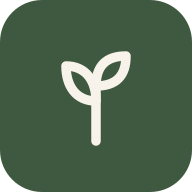
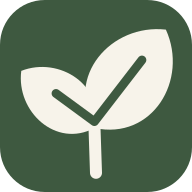
Add files via upload
Round 5.1.6

diff --git a/app.js b/app.js
@@ -1,5 +1,5 @@
 /* Green Screen v5 — round 1: data & sync, sidebar & themes, New project, Projects, Project page */
-const APP_VERSION = '5.1.3';
+const APP_VERSION = '5.1.6';
 
 /* ============================================================
    CONSTANTS & DEFAULTS
@@ -64,7 +64,7 @@ const motionOK = () => U.motion && !(window.matchMedia && window.matchMedia('(pr
    ============================================================ */
 const svg = (w, body, sw = 1.8) => `<svg width="${w}" height="${w}" viewBox="0 0 24 24" fill="none" stroke="currentColor" stroke-width="${sw}" stroke-linecap="round" stroke-linejoin="round" aria-hidden="true">${body}</svg>`;
 const I = {
-  leaf: (w = 16, c = 'var(--accentInk)') => `<svg width="${w}" height="${w}" viewBox="0 0 24 24" fill="none" stroke="${c}" stroke-width="2" stroke-linecap="round" aria-hidden="true"><path d="M12 21V9"></path><path d="M12 13c-4 0-6-3-6-7 4 0 6 3 6 7z"></path><path d="M12 10c0-4 2-6 6-6 0 4-2 6-6 6z"></path></svg>`,
+  leaf: (w = 28) => `<svg width="${w}" height="${w}" viewBox="0 0 120 120" aria-hidden="true"><g fill="var(--accentInk)"><path transform="translate(59 80) rotate(36)" d="M0 0C34 -15 30 -59 0 -76C-30 -59 -34 -15 0 0Z"></path><path transform="translate(59 80) rotate(-52)" d="M0 0C25 -11 22 -45 0 -58C-22 -45 -25 -11 0 0Z"></path></g><path d="M59 78L60 108" stroke="var(--accentInk)" stroke-width="7.5" stroke-linecap="round"></path><path d="M35 58.4L59 76L88.7 37.5" fill="none" stroke="var(--accent)" stroke-width="5.5" stroke-linecap="round" stroke-linejoin="round"></path></svg>`,
   dash: svg(16, '<rect x="3" y="3" width="7" height="7" rx="1.5"></rect><rect x="14" y="3" width="7" height="7" rx="1.5"></rect><rect x="3" y="14" width="7" height="7" rx="1.5"></rect><rect x="14" y="14" width="7" height="7" rx="1.5"></rect>'),
   list: svg(16, '<path d="M9 6h11M9 12h11M9 18h11"></path><path d="M4 6h.01M4 12h.01M4 18h.01"></path>'),
   clock: svg(16, '<circle cx="12" cy="12" r="9"></circle><path d="M12 7v5l3 2"></path>'),
@@ -420,13 +420,14 @@ function renderSide() {
       <span class="pbar"><i style="width:${pr.pct}%;background:${dColor(p.designer)}"></i></span></a>`;
   }).join('') : `<div class="lbl" style="font-size:12.5px;color:var(--muted);padding:2px 10px;white-space:normal">No open projects yet</div>`;
   return `<aside class="side${U.collapsed ? ' collapsed' : ''}">
-    <a class="brand" href="#/dashboard" title="Green Screen"><span class="logo">${I.leaf()}</span><span class="lbl" style="font-weight:600;font-size:16px;letter-spacing:-.01em;color:var(--ink)">Green Screen</span></a>
+    <a class="brand" href="#/dashboard" title="Green Screen"><span class="logo">${I.leaf(28)}</span><span class="lbl" style="font-weight:600;font-size:16px;letter-spacing:-.01em;color:var(--ink)">Green Screen</span></a>
     <nav class="navlist" aria-label="Main">${navHtml}</nav>
     <div style="display:flex;flex-direction:column;gap:6px;min-height:0">
       <div class="sidehead"><span class="lbl">Open projects</span></div>
       <div class="sideprojs">${projHtml}</div>
     </div>
     <a href="#/settings" class="syncind" id="syncind"></a>
+    ${installEvt && !isStandalone() ? `<button class="toggle press installbtn" data-act="install" title="Install Green Screen as an app" style="margin-top:-18px">${I.download}<span class="lbl">Install app</span></button>` : ''}
     <button class="toggle press" data-act="toggleSide" aria-label="${U.collapsed ? 'Expand sidebar' : 'Collapse sidebar'}" title="${U.collapsed ? 'Expand sidebar' : 'Collapse sidebar'}">${I.collapse}<span class="lbl">Collapse</span></button>
   </aside>`;
 }
@@ -754,17 +755,24 @@ function pageTasklist() {
    ============================================================ */
 function pageDue() {
   const days = Array.from({ length: 14 }, (_, i) => addDays(i));
+  const installs = activeProjects().filter(p => p.installDate && days.includes(p.installDate) && dselOK(p));
   const all = openSteps(r => !!r.x.st.due && daysFrom(r.x.st.due) <= 13 && dselOK(r.p));
   const leavingRows = Object.keys(U.tleave).map(mk => { const [pid, k] = mk.split(':'); const p = S.projects[pid]; const x = p && getItem(p, k); return p && x && x.st.due ? { p, x, cs: curStage(p), upcoming: x.stage > curStage(p) } : null; }).filter(Boolean).filter(r => !all.some(a => a.p.id === r.p.id && a.x.key === r.x.key));
   const rows = all.concat(leavingRows);
   const sel = U.dueDay && days.includes(U.dueDay) ? U.dueDay : null;
   const strip = `<div class="strip rise" role="group" aria-label="Next 14 days">${days.map((iso, i) => {
     const d = parseISO(iso); const here = rows.filter(r => r.x.st.due === iso && !U.tleave[r.p.id + ':' + r.x.key]);
+    const inst = installs.filter(p => p.installDate === iso);
     const wk = d.getDay() === 0 || d.getDay() === 6;
-    const dots = here.length > 6 ? `<i></i><i></i><i></i><span class="sdmore">+${here.length - 3}</span>` : here.map(() => '<i></i>').join('');
-    return `<button class="scell press${i === 0 ? ' today' : ''}${wk ? ' wk' : ''}${sel === iso ? ' on' : ''}" data-act="dueDay" data-v="${iso}" aria-pressed="${sel === iso}" title="${fmtDay(iso)} · ${here.length} ${here.length === 1 ? 'step' : 'steps'} due" aria-label="${fmtDay(iso)}, ${here.length} due"><span class="sw">${i === 0 ? 'Today' : WK[d.getDay()]}</span><span class="sn">${d.getDate()}</span><span class="sdots">${dots}</span></button>`;
+    const all = inst.map(p => `<i class="sdi" style="background:${dColor(p.designer)}"></i>`).concat(here.map(() => '<i></i>'));
+    const dots = all.length > 6 ? all.slice(0, 3).join('') + `<span class="sdmore">+${all.length - 3}</span>` : all.join('');
+    const tip = [here.length ? here.length + (here.length === 1 ? ' step' : ' steps') + ' due' : '', inst.length ? 'Install: ' + inst.map(p => shortName(p.name)).join(', ') : ''].filter(Boolean).join(' · ') || 'Nothing due';
+    return `<button class="scell press${i === 0 ? ' today' : ''}${wk ? ' wk' : ''}${sel === iso ? ' on' : ''}" data-act="dueDay" data-v="${iso}" aria-pressed="${sel === iso}" title="${fmtDay(iso)} · ${esc(tip)}" aria-label="${fmtDay(iso)}, ${esc(tip)}"><span class="sw">${i === 0 ? 'Today' : WK[d.getDay()]}</span><span class="sn">${d.getDate()}</span><span class="sdots">${dots}</span></button>`;
   }).join('')}</div>`;
   const visible = sel ? rows.filter(r => r.x.st.due === sel) : rows;
+  const legend = `<div class="slegend"><span><i></i>Steps due</span><span><i class="sdi" style="background:var(--muted)"></i><i class="sdi" style="background:var(--c-sage);margin-left:-3px"></i>Install date · designer’s color</span></div>`;
+  const selInst = sel ? installs.filter(p => p.installDate === sel) : [];
+  const instLine = selInst.length ? `<div class="instline">${I.truck(14)}<span>Installing ${esc(fmtDay(sel))}:</span>${selInst.map(p => `<button class="instchip press" data-act="goOps" title="Open Operations"><span class="dot" style="width:8px;height:8px;background:${dColor(p.designer)}"></span>${esc(shortName(p.name))}${p.crew ? `<span class="muted">· ${esc(p.crew)}</span>` : ''}</button>`).join('')}</div>` : '';
   const overdueN = rows.filter(r => daysFrom(r.x.st.due) < 0 && !U.tleave[r.p.id + ':' + r.x.key]).length;
   const head = `<div class="phead"><div><div class="eyebrow">${overdueN ? overdueN + ' overdue · ' : ''}next 2 weeks</div><h1>Due Soon</h1></div>${sel ? `<button class="btn press" data-act="dueDay" data-v="">Show all</button>` : ''}</div>
     <div style="margin:-8px 0 16px">${designerPills()}</div>`;
@@ -779,7 +787,7 @@ function pageDue() {
     return `<section class="tgroup rise${open ? ' open' : ''}${id === 'over' ? ' late' : ''}" style="animation-delay:${gi * 50}ms"><button class="dhead" data-act="dgroup" data-v="${id}" aria-expanded="${open}">${I.chev()}<span style="font-size:15px;font-weight:600${id === 'over' ? ';color:var(--urgent)' : ''}">${label}</span><span class="mono" style="font-size:12px;color:var(--muted)">${cnt}</span></button>${body}</section>`;
   }).join('');
   const empty = !rows.length ? `<div class="empty rise"><h2>Nothing due in the next two weeks</h2><p>Give a step a target date and it’ll show up here, whatever stage it’s in.</p></div>` : '';
-  return head + strip + (empty || groups);
+  return head + strip + legend + instLine + (empty || groups);
 }
 
 /* ============================================================
@@ -1203,6 +1211,7 @@ function pageSettings() {
   const crows = (S.settings.crews || []).map((c, i) => { const n = cCount(c); return `<div class="crow2"><label style="min-width:0"><span class="sr">Crew leader</span><input class="tin" id="cr-${i}" value="${esc(c)}" data-scommit="crew" data-i="${i}" autocomplete="off"></label><span class="mono" style="font-size:11.5px;color:var(--muted);text-align:right">${n ? n + (n === 1 ? ' job' : ' jobs') : ''}</span><button class="ibtn del press" data-act="cdel" data-i="${i}" ${n ? 'disabled' : ''} title="${n ? 'Reassign their jobs on Operations before removing' : 'Remove ' + esc(c)}" aria-label="Remove ${esc(c)}">${I.x(14)}</button></div>`; }).join('');
   const ret = retentionDays();
   return `<div class="phead"><div><div class="eyebrow">Version ${APP_VERSION} · window ${scr}</div><h1>Settings</h1></div></div>
+  ${installCard()}
   <section class="card scard rise"><h2>Appearance</h2><p class="sub">Saved on this device.</p><div class="tcards">${tcards}</div>
     <div class="rowline"><span><span style="display:block;font-size:13.5px;font-weight:500">Motion</span><span style="font-size:12.5px;color:var(--muted)">Animations for completing steps, stages and opening folders. Off keeps everything instant.</span></span><button class="tog${U.motion ? ' on' : ''}" data-act="motion" aria-pressed="${U.motion}" aria-label="Animations"></button></div></section>
   <section class="card scard rise" style="animation-delay:40ms"><h2>Designers</h2><p class="sub">Rename in place and pick each designer’s color. A designer can be removed once they have no projects.</p>${drows}
@@ -1634,6 +1643,7 @@ document.addEventListener('click', (e) => {
     case 'theme': U.theme = v; lsSet(LS.theme, v); render(); renderToast(); break;
     case 'motion': U.motion = !U.motion; lsSet(LS.motion, U.motion); render(); break;
     case 'backup': downloadBackup(); break;
+    case 'install': doInstall(); break;
     case 'dsel': U.dsel = v; lsSet('gs5:dsel', v); render(); break;
     case 'tgroup': { const o = U.tgroups[v] !== undefined ? U.tgroups[v] : v !== 'LOW'; U.tgroups[v] = !o; render(); break; }
     case 'dgroup': { const o = U.dgroups[v] !== undefined ? U.dgroups[v] : v !== 'later'; U.dgroups[v] = !o; render(); break; }
@@ -1650,6 +1660,27 @@ document.addEventListener('click', (e) => {
   }
 });
 
+/* ---------- install as an app (PWA) ---------- */
+let installEvt = null;
+const isStandalone = () => (window.matchMedia && window.matchMedia('(display-mode: standalone)').matches) || window.navigator.standalone === true;
+window.addEventListener('beforeinstallprompt', (e) => { e.preventDefault(); installEvt = e; render(); });
+window.addEventListener('appinstalled', () => { installEvt = null; showToast('Green Screen installed', false); render(); });
+function doInstall() {
+  if (!installEvt) { location.hash = '#/settings'; return; }
+  const ev = installEvt; installEvt = null;
+  ev.prompt();
+  (ev.userChoice || Promise.resolve({})).then((r) => { if (r && r.outcome !== 'accepted') installEvt = ev; render(); }).catch(() => render());
+}
+function installCard() {
+  if (isStandalone()) return '';
+  const ua = navigator.userAgent || '';
+  const ios = /iPad|iPhone|iPod/.test(ua) || (navigator.platform === 'MacIntel' && navigator.maxTouchPoints > 1);
+  const how = ios
+    ? 'In Safari, tap the Share button, then <b>Add to Home Screen</b>.'
+    : installEvt ? 'Opens in its own window with the Green Screen icon, like any other app.'
+    : 'In Chrome, click the install icon at the right end of the address bar, or open the ⋮ menu → <b>Cast, save and share</b> → <b>Install page as app</b>. If you don’t see it, the app may already be installed: check your apps or desktop.';
+  return `<section class="card scard rise"><div style="display:flex;align-items:center;gap:16px;flex-wrap:wrap"><span style="width:40px;height:40px;border-radius:10px;background:var(--accent);display:grid;place-items:center;flex:none">${I.leaf(40)}</span><span style="flex:1;min-width:220px"><h2 style="margin-bottom:2px">Install Green Screen</h2><span style="font-size:12.5px;color:var(--muted)">${how}</span></span>${installEvt && !ios ? `<button class="btn pri press" data-act="install">${I.download}Install app</button>` : ''}</div></section>`;
+}
 function downloadBackup() {
   const data = { app: 'Green Screen', version: APP_VERSION, exportedAt: new Date().toISOString(), projects: S.projects, workflow: S.workflow, settings: S.settings };
   const blob = new Blob([JSON.stringify(data, null, 2)], { type: 'application/json' });

diff --git a/styles.css b/styles.css
@@ -59,7 +59,7 @@ a{color:inherit}
 .syncind{display:flex;align-items:center;gap:10px;padding:7px 10px;border-radius:8px;font-size:12.5px;color:var(--muted);text-decoration:none;margin-top:auto;flex:none}
 .syncind:hover{background:var(--hover);color:var(--ink)}
 .sdot{position:relative;width:8px;height:8px;border-radius:99px;background:var(--accent);flex:none;margin:0 4px}
-.sdot::after{content:"";position:absolute;inset:-3px;border-radius:99px;border:1.5px solid var(--accent);opacity:0;animation:syncping 3.2s ease-out infinite}
+.sdot::after{content:"";position:absolute;box-sizing:border-box;left:50%;top:50%;width:14px;height:14px;margin:-7px 0 0 -7px;border-radius:99px;border:1.5px solid var(--accent);opacity:0;animation:syncping 3.2s ease-out infinite;transform-origin:50% 50%}
 .sync-saving .sdot::after{animation-duration:1s}
 .sync-offline .sdot,.sync-local .sdot{background:transparent;box-shadow:inset 0 0 0 1.5px var(--muted)}
 .sync-offline .sdot::after,.sync-local .sdot::after,.sync-error .sdot::after{display:none}
@@ -396,6 +396,16 @@ h2{margin:0;font-size:15px;font-weight:600}
 .sdots i{flex:none;width:5px;height:5px;border-radius:99px;display:block;background:var(--muted);opacity:.75}
 .sdmore{font-family:'Geist Mono',monospace;font-size:9px;line-height:1;color:var(--muted)}
 .scell.on .sdots i{background:var(--accentInk);opacity:.9}
+.sdots i.sdi{width:6px;height:6px;opacity:1}
+.scell.on .sdots i.sdi{box-shadow:0 0 0 1.5px var(--accentInk)}
+.slegend{display:flex;gap:16px;justify-content:flex-end;font-size:11.5px;color:var(--muted);margin:-8px 2px 14px}
+.slegend span{display:inline-flex;align-items:center;gap:6px}
+.slegend i{width:5px;height:5px;border-radius:99px;background:var(--muted);opacity:.75;display:inline-block}
+.slegend i.sdi{width:6px;height:6px;opacity:1;box-shadow:0 0 0 1.5px var(--bg)}
+.instline{display:flex;flex-wrap:wrap;align-items:center;gap:8px;margin:-4px 0 14px;font-size:13px;color:var(--muted)}
+.instchip{display:inline-flex;align-items:center;gap:6px;border:1px solid var(--line);background:var(--panel);color:var(--ink);font-size:12.5px;font-weight:500;padding:4px 10px;border-radius:99px;cursor:pointer}
+.instchip:hover{background:var(--hover)}
+.instchip .muted{font-weight:400}
 .scell.on .sdmore{color:var(--accentInk)}
 
 /* ---------- dashboard ---------- */

diff --git a/index.html b/index.html
@@ -17,11 +17,11 @@
 <link rel="preconnect" href="https://fonts.googleapis.com">
 <link rel="preconnect" href="https://fonts.gstatic.com" crossorigin>
 <link href="https://fonts.googleapis.com/css2?family=Geist:wght@400;500;600;700&family=Geist+Mono:wght@400;500&display=swap" rel="stylesheet">
-<link rel="stylesheet" href="styles.css?v=5.1.3">
+<link rel="stylesheet" href="styles.css?v=5.1.6">
 </head>
 <body>
 <div id="app"><div style="min-height:100vh;display:grid;place-items:center;font-family:system-ui,sans-serif;color:#6B665A;background:#F2ECE1">Loading Green Screen…</div></div>
 <noscript>Green Screen needs JavaScript turned on.</noscript>
-<script type="module" src="app.js?v=5.1.3"></script>
+<script type="module" src="app.js?v=5.1.6"></script>
 </body>
 </html>

diff --git a/sw.js b/sw.js
@@ -1,8 +1,8 @@
 /* Green Screen v5 service worker — bump VERSION on every upload */
-const VERSION = '5.1.3';
+const VERSION = '5.1.6';
 const CACHE = 'gs5-shell-' + VERSION;
 const RUNTIME = 'gs5-runtime';
-const SHELL = ['./', './index.html', './styles.css?v=5.1.3', './app.js?v=5.1.3', './manifest.json',
+const SHELL = ['./', './index.html', './styles.css?v=5.1.6', './app.js?v=5.1.6', './manifest.json',
   './icons/icon-192.png', './icons/icon-512.png', './icons/icon-maskable-512.png', './icons/apple-touch-icon.png', './icons/favicon-32.png', './icons/favicon.svg'];
 const FB = 'https://www.gstatic.com/firebasejs/10.13.0/';
 const FIREBASE = [FB + 'firebase-app.js', FB + 'firebase-firestore.js', FB + 'firebase-auth.js'];
